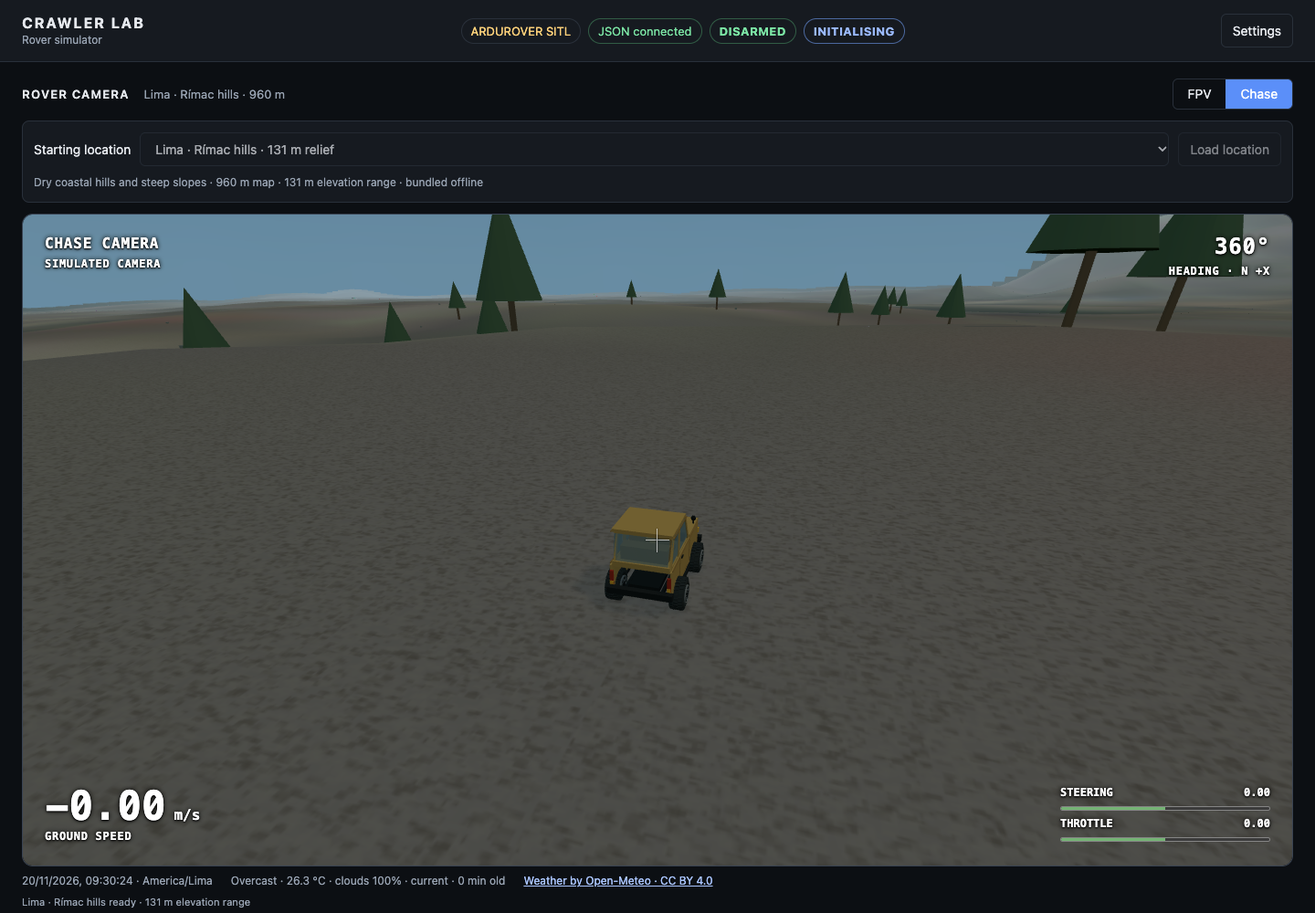
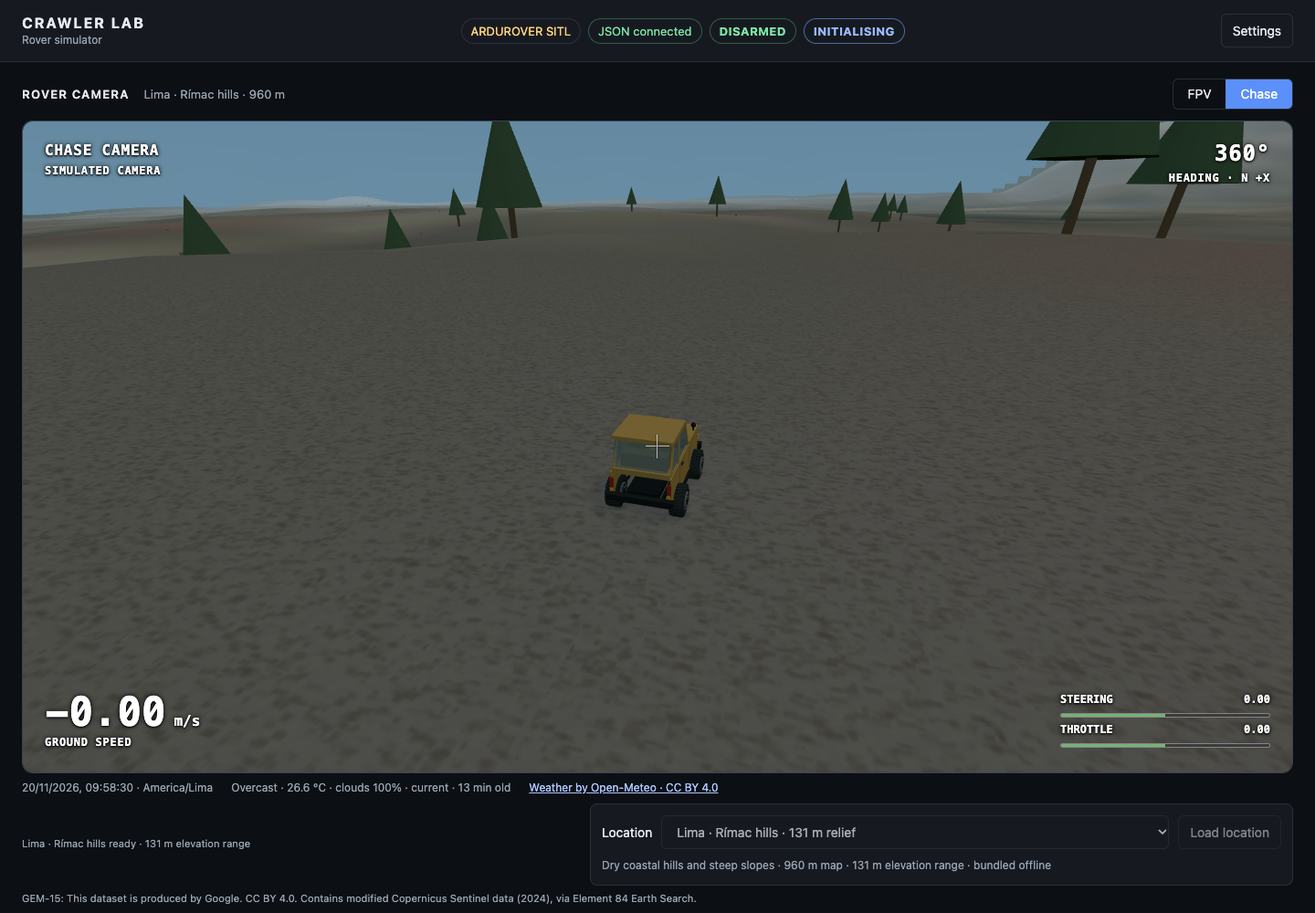
Add Mission Planner terrain selector with preset GPS overrides

diff --git a/src/server.js b/src/server.js
@@ -29,14 +29,14 @@ const session=new Session(physics,config);
 let weather=new LiveWeather(environment.home,{timeZone:environment.timeZone});if(!pendingLocation)weather.start();
 const root=path.resolve(path.dirname(fileURLToPath(import.meta.url)),'..');
 const log=(event,data={})=>console.log(JSON.stringify({time:new Date().toISOString(),event,...data}));
-let selectedLocation=null;
+let selectedLocation=externalStart?'custom':null;
 let startTerrain=locationPicker?{status:'selecting',message:'Choose a starting location below'}:externalStart?{status:'waiting',message:'Waiting for Mission Planner start coordinates and disarmed telemetry'}:null;
 const terrainAbort=new AbortController();
 const telemetry=new HeartbeatTelemetry(config.mavlink??{});
 let telemetrySocket=null;
 if(mode==='sitl'&&config.mavlink){
   telemetrySocket=dgram.createSocket('udp4');
-  telemetrySocket.on('message',bytes=>{telemetry.receive(bytes,performance.now());void loadPickedStart();});
+  telemetrySocket.on('message',bytes=>{telemetry.receive(bytes,performance.now());checkSelectedGps();void loadPickedStart();});
   telemetrySocket.on('error',e=>{log('mavlink-error',{message:e.message});telemetrySocket.close();telemetrySocket=null;});
   telemetrySocket.bind(config.mavlink.port,config.mavlink.host,()=>log('mavlink-listening',{port:config.mavlink.port}));
 }
@@ -68,13 +68,19 @@ wss.on('connection',ws=>{
       const steering=Math.max(-1,Math.min(1,Number(m.steering)||0)),throttle=Math.max(-1,Math.min(1,Number(m.throttle)||0));
       keyboard={steering,throttle,time:performance.now(),owner:steering||throttle?ws:null};
     } else if(m.type==='selectLocation'){
-      if(!locationPicker)error='Start the launcher with --choose-location to select a preset.';
-      else if(['loading','ready'].includes(startTerrain.status))error='Location is loading or already selected.';
-      else if(mode==='sitl'&&performance.now()-session.last<config.timeoutMs)error='Stop SITL before choosing a start; the launcher starts it after selection.';
+      if(!locationPicker&&!externalStart)error='Start with --choose-location or --mission-planner to select a location.';
+      else if(startTerrain.status==='loading'||(locationPicker&&startTerrain.status==='ready'))error='Location is loading or already selected.';
+      else if(externalStart&&sitlActive()&&telemetry.snapshot(performance.now()).armed!==false)error='Disarm SITL and wait for fresh telemetry before changing location.';
+      else if(locationPicker&&mode==='sitl'&&sitlActive())error='Stop SITL before choosing a start; the launcher starts it after selection.';
+      else if(m.id==='custom'&&externalStart)selectCustom();
       else void loadPreset(findLocation(m.id));
     } else if(m.type==='retryTerrain'){
-      if(locationPicker&&startTerrain.status==='error'&&selectedLocation){void loadPreset(findLocation(selectedLocation));}
+      if((locationPicker||externalStart)&&startTerrain.status==='error'&&selectedLocation&&selectedLocation!=='custom'){
+        if(externalStart&&sitlActive()&&telemetry.snapshot(performance.now()).armed!==false)error='Disarm SITL before retrying the location.';
+        else void loadPreset(findLocation(selectedLocation));
+      }
       else if(!externalStart)error='Terrain retry is available in Mission Planner start-selection mode.';
+      else if(['restart','verifying'].includes(startTerrain.status))error='Restart SITL in Mission Planner and wait for the selected GPS position.';
       else if(startTerrain.status==='loading')error='Terrain is already loading.';
       else if(startTerrain.status==='ready')error='Terrain is already loaded.';
       else if(telemetry.snapshot(performance.now()).armed!==false)error='Disarm SITL and wait for fresh telemetry before retrying terrain.';
@@ -99,6 +105,11 @@ if(mode==='sitl'){
       const p=decodeActuators(bytes),key=`${remote.address}:${remote.port}`;
       if(pending){if(p.count===pending.count&&key===pending.key)return;return;}
       const reply=session.receive(p,key,now);if(!reply)return;
+      if(startTerrain?.status==='restart'&&session.stats.restarts>startTerrain.restartFrom){
+        telemetry.simPosition=null;telemetry.globalPosition=null;
+        if(selectedLocation==='custom')startTerrain={status:'waiting',message:'Waiting for Mission Planner start coordinates and disarmed telemetry'};
+        else startTerrain={...startTerrain,status:'verifying',message:'Waiting for GPS at the selected preset · physics held'};
+      }
       resetPending=false;
       if(reply.event==='restart')log('sitl-restarted',{peer:key});
       if(reply.event==='gap')log('frame-gap-resync',{peer:key,count:p.count});
@@ -117,33 +128,58 @@ const tick=setInterval(()=>{const now=performance.now();if(mode==='standalone'){
 }previous=now;
 const connected=mode==='sitl'&&now-session.last<config.timeoutMs;if(connected!==lastConnected){log(connected?'sitl-connected':'sitl-timeout',{peer:session.peer});lastConnected=connected;}
 },5);
-function snapshot(){const state=physics.state();return {type:'state',mode,running,startTerrain,selectedLocation,environment:environment.terrain?.name??'Test playground',home:environment.home,weather:weather.snapshot(),camera:cameraAim(mode==='sitl'?telemetry.rcSnapshot(performance.now()):null),autopilot:mode==='sitl'?telemetry.snapshot(performance.now()):null,connected:mode==='standalone'||performance.now()-session.last<config.timeoutMs,resetPending,...state,simTime:mode==='sitl'?session.time:physics.time,rate:session.rate??100,ageMs:Number.isFinite(session.last)?Math.round(performance.now()-session.last):null,raw:session.raw??[],stats:{...session.stats,malformed,lagDropped},wallTime:performance.now()/1000};}
+function snapshot(){const state=physics.state();return {type:'state',mode,running,startTerrain,selectedLocation,environment:environment.terrain?.name??'Test playground',home:environment.home,weather:weather.snapshot(),camera:cameraAim(mode==='sitl'?telemetry.rcSnapshot(performance.now()):null),autopilot:mode==='sitl'?{...telemetry.snapshot(performance.now()),position:telemetry.positionSnapshot(performance.now())}:null,connected:mode==='standalone'||performance.now()-session.last<config.timeoutMs,resetPending,...state,simTime:mode==='sitl'?session.time:physics.time,rate:session.rate??100,ageMs:Number.isFinite(session.last)?Math.round(performance.now()-session.last):null,raw:session.raw??[],stats:{...session.stats,malformed,lagDropped},wallTime:performance.now()/1000};}
 const broadcast=setInterval(()=>{const msg=JSON.stringify(snapshot());for(const ws of wss.clients)if(ws.readyState===WebSocket.OPEN&&ws.bufferedAmount<65536)ws.send(msg);},50);
 wss.on('error',e=>{log('websocket-error',{message:e.message});process.exitCode=1;});
 server.on('error',e=>{log('http-error',{message:e.message});process.exitCode=1;shutdown();});
 server.listen(config.httpPort,config.httpHost,()=>log('ready',{url:`http://${config.httpHost}:${config.httpPort}`,mode}));
 let shuttingDown=false;
-function initialState(){return {type:'init',mode,config,locations:locationPicker?locationPresets:[],selectedLocation,world:environment.world,terrain:environment.terrain};}
+function initialState(){return {type:'init',mode,config,locations:externalStart?[...locationPresets,{id:'custom',name:'Custom · Mission Planner',description:'Fetch terrain at Mission Planner’s selected start'}]:locationPicker?locationPresets:[],selectedLocation,locationMode:externalStart?'mission-planner':locationPicker?'launcher':null,world:environment.world,terrain:environment.terrain};}
+function sitlActive(){return performance.now()-session.last<config.timeoutMs||telemetry.snapshot(performance.now()).connected;}
+function selectCustom(){
+ selectedLocation='custom';running=false;session.running=false;
+ if(session.stats.packets>0||session.home||session.pendingHome){
+  session.pendingHome=null;
+  startTerrain={status:'restart',restartFrom:session.stats.restarts,message:'Custom selected · stop and start SITL in Mission Planner to read its selected start. Keep this page open.'};
+ }else{
+  startTerrain={status:'waiting',message:'Waiting for Mission Planner start coordinates and disarmed telemetry'};
+  void loadPickedStart();
+ }
+}
+function checkSelectedGps(){
+ if(startTerrain?.status!=='verifying')return;
+ const now=performance.now(),p=telemetry.positionSnapshot(now),home=environment.home;
+ if(p&&telemetry.snapshot(now).armed===false&&Math.abs(p.lat-home.lat)<.00002&&Math.abs(p.lon-home.lon)<.00002&&Math.abs(p.alt-home.alt)<2){
+  startTerrain={...startTerrain,status:'ready',message:`${findLocation(selectedLocation).name} ready · GPS overridden · start physics when ready`};
+ }
+}
 async function loadPreset(preset){
  selectedLocation=preset.id;running=false;session.running=false;keyboard={steering:0,throttle:0,time:0,owner:null};
  startTerrain={status:'loading',message:`Loading ${preset.name}`,home:preset};
  try{
   const {terrain,cached}=await loadStartTerrain(preset,{signal:terrainAbort.signal});
   if(shuttingDown)return;
-  if(mode==='sitl'&&performance.now()-session.last<config.timeoutMs)throw Error('SITL connected before selection finished. Stop it before retrying.');
+  if(locationPicker&&mode==='sitl'&&sitlActive())throw Error('SITL connected before selection finished. Stop it before retrying.');
+  if(externalStart&&sitlActive()&&telemetry.snapshot(performance.now()).armed!==false)throw Error('Disarm SITL before retrying the location selection.');
   const replacement=await Physics.create(config.vehicle,true,terrain);
   if(shuttingDown){replacement.free();return;}
-  if(mode==='sitl'&&performance.now()-session.last<config.timeoutMs){replacement.free();throw Error('Stop SITL before retrying the location selection.');}
+  if(mode==='sitl'&&sitlActive()&&(locationPicker||telemetry.snapshot(performance.now()).armed!==false)){replacement.free();throw Error('Stop or disarm SITL before retrying the location selection.');}
   physics.free();physics=replacement;session.physics=physics;
   environment={terrain,world:terrainObjects(terrain),home:terrain.home,timeZone:preset.timeZone};
   weather.close();weather=new LiveWeather(terrain.home,{timeZone:preset.timeZone});weather.start();
   startTerrain={status:'ready',message:`${preset.name} ready · ${preset.reliefM} m elevation range`,home:terrain.home,cached};
+  if(externalStart){
+   if(session.stats.packets>0){
+    session.pendingHome=terrain.home;
+    startTerrain={...startTerrain,status:'restart',restartFrom:session.stats.restarts,message:`${preset.name} loaded · stop and start SITL in Mission Planner to apply its GPS coordinates. Keep this page open; no map changes needed.`};
+   }else{session.home=terrain.home;session.pendingHome=undefined;}
+  }
   const init=JSON.stringify(initialState());for(const ws of wss.clients)if(ws.readyState===WebSocket.OPEN)ws.send(init);
   log('location-selected',{id:preset.id,home:terrain.home,cached});
  }catch(error){if(!shuttingDown)startTerrain={status:'error',message:`Location load failed: ${error.message}. Use Retry terrain.`,home:preset};}
 }
 async function loadPickedStart(){
- if(!externalStart||startTerrain.status!=='waiting'||shuttingDown)return;
+ if(!externalStart||selectedLocation!=='custom'||startTerrain.status!=='waiting'||shuttingDown)return;
  const now=performance.now(),home=telemetry.positionSnapshot(now);
  if(!home||telemetry.snapshot(now).armed!==false)return;
  startTerrain={status:'loading',message:'Downloading terrain for selected start',home};log('terrain-start-loading',{home});

diff --git a/web/app.js b/web/app.js
@@ -15,9 +15,9 @@ const weatherView=createWeatherView(scene,renderer,sun,ambient,scenery);const ca
 // Rendering and video capture do not own physics or MAVLink control.
 export const fpvOutput={camera,canvas,renderer,scene};
 function box(size,color,parent=scene){const m=new T.Mesh(new T.BoxGeometry(...size),new T.MeshStandardMaterial({color,roughness:.85}));m.castShadow=true;m.receiveShadow=true;parent.add(m);return m;}
-let state=null,config=null,wheels=[],ws,mode='sitl',lastReceive=0,crawler=null,locations=[];
+let state=null,config=null,wheels=[],ws,mode='sitl',lastReceive=0,crawler=null,locations=[],locationMode=null;
 function notice(message){$('notice').textContent=message;$('notice').style.display='block';setTimeout(()=>$('notice').style.display='none',7000);}
-function setup(m){locations=m.locations??[];$('locationPicker').hidden=!locations.length;$('locationSelect').replaceChildren(...locations.map(p=>{const o=document.createElement('option');o.value=p.id;o.textContent=`${p.name} · ${p.reliefM} m relief`;return o;}));$('locationSelect').value=m.selectedLocation??state?.selectedLocation??locations[0]?.id??'';describeLocation();config=m.config;mode=m.mode;const c=config.vehicle;$('mode').textContent=mode==='sitl'?'ARDUROVER SITL':'STANDALONE · NO AUTOPILOT';$('help').textContent=mode==='sitl'?'Drive using Mission Planner or your MAVLink companion. Browser keys do not control physics.':'W/S or ↑/↓: forward / brake / reverse. A/D or ←/→: steer. Release to stop. Click the view to focus.';$('keyLegend').hidden=mode!=='standalone';for(const id of ['armState','flightMode'])$(id).hidden=mode!=='sitl';
+function setup(m){locationMode=m.locationMode;locations=m.locations??[];$('locationPicker').hidden=!locations.length;$('locationSelect').replaceChildren(...locations.map(p=>{const o=document.createElement('option');o.value=p.id;o.textContent=p.id==='custom'?p.name:`${p.name} · ${p.reliefM} m relief`;return o;}));$('locationSelect').value=m.selectedLocation??state?.selectedLocation??locations[0]?.id??'';describeLocation();config=m.config;mode=m.mode;const c=config.vehicle;$('mode').textContent=mode==='sitl'?'ARDUROVER SITL':'STANDALONE · NO AUTOPILOT';$('help').textContent=mode==='sitl'?'Drive using Mission Planner or your MAVLink companion. Browser keys do not control physics.':'W/S or ↑/↓: forward / brake / reverse. A/D or ←/→: steer. Release to stop. Click the view to focus.';$('keyLegend').hidden=mode!=='standalone';for(const id of ['armState','flightMode'])$(id).hidden=mode!=='sitl';
   if(crawler){rover.remove(crawler.model);crawler.dispose();}
   crawler=createCrawler(c);rover.add(crawler.model);wheels=crawler.wheels;
   // Init is resent on reconnect; replace world instead of duplicating objects.
@@ -34,7 +34,7 @@ function send(m){if(ws?.readyState===WebSocket.OPEN)ws.send(JSON.stringify(m));}
 function connect(){ws=new WebSocket(`${location.protocol==='https:'?'wss':'ws'}://${location.host}`);ws.onmessage=e=>{const m=JSON.parse(e.data);if(m.type==='init')setup(m);if(m.type==='error')notice(m.message);if(m.type==='state'){state=m;lastReceive=performance.now();}};ws.onclose=()=>{keys.clear();$('connection').textContent='Backend offline · reconnecting';$('connection').dataset.state='offline';setTimeout(connect,1000);};}
 connect();
 $('run').onclick=()=>send({type:'running',value:!state?.running});$('reset').onclick=()=>send({type:'reset'});
-function describeLocation(){const p=locations.find(p=>p.id===$('locationSelect').value);$('locationHint').textContent=p?`${p.description} · 960 m map · ${p.reliefM} m elevation range · bundled offline`:'';}
+function describeLocation(){const p=locations.find(p=>p.id===$('locationSelect').value);$('locationHint').textContent=p?(p.id==='custom'?p.description:`${p.description} · 960 m map · ${p.reliefM} m elevation range · bundled offline`):'';}
 $('locationSelect').onchange=describeLocation;$('loadLocation').onclick=()=>send({type:'selectLocation',id:$('locationSelect').value});
 $('retryTerrain').onclick=()=>send({type:'retryTerrain'});
 $('fov').oninput=()=>{camera.fov=+$('fov').value;camera.updateProjectionMatrix();$('fovValue').textContent=`${camera.fov}°`;};
@@ -60,8 +60,9 @@ function render(){requestAnimationFrame(render);const width=viewport.clientWidth
     $('armState').dataset.state=autopilot?autopilot.armed?'armed':'disarmed':'unknown';$('flightMode').dataset.state=autopilot?.flightMode?'known':'unknown';
     if(s.wallTime!==previousWall){ratio=(s.simTime-previousTime)/(s.wallTime-previousWall);previousTime=s.simTime;previousWall=s.wallTime;}
     const terrainMessage=s.startTerrain?.message??'';if($('startTerrainStatus').textContent!==terrainMessage)$('startTerrainStatus').textContent=terrainMessage;$('run').disabled=!!s.startTerrain&&s.startTerrain.status!=='ready';
-    $('locationSelect').disabled=!online||['loading','ready'].includes(s.startTerrain?.status);$('loadLocation').disabled=$('locationSelect').disabled;
-    $('terrainLoad').hidden=!s.startTerrain;$('retryTerrain').hidden=s.startTerrain?.status==='ready'||(locations.length>0&&s.startTerrain?.status==='selecting');$('retryTerrain').disabled=!online||(!locations.length&&s.autopilot?.armed!==false)||['loading','ready'].includes(s.startTerrain?.status);$('retryTerrain').textContent=s.startTerrain?.status==='loading'?'Loading terrain…':'Retry terrain';
+    const externalPicker=locationMode==='mission-planner',unsafeSelection=externalPicker&&(s.connected||s.autopilot?.connected)&&s.autopilot?.armed!==false;
+    $('locationSelect').disabled=!online||s.startTerrain?.status==='loading'||(!externalPicker&&s.startTerrain?.status==='ready')||unsafeSelection;$('loadLocation').disabled=$('locationSelect').disabled;
+    $('terrainLoad').hidden=!s.startTerrain;$('retryTerrain').hidden=['ready','restart','verifying'].includes(s.startTerrain?.status)||(locations.length>0&&s.startTerrain?.status==='selecting');$('retryTerrain').disabled=!online||((!locations.length||externalPicker)&&s.autopilot?.armed!==false)||['loading','ready'].includes(s.startTerrain?.status);$('retryTerrain').textContent=s.startTerrain?.status==='loading'?'Loading terrain…':'Retry terrain';
     $('run').textContent=s.running?'Stop physics':'Start physics';$('diagnostics').textContent=`RTF ${ratio.toFixed(2)} · packet age ${s.ageMs??'—'} ms · duplicates ${s.stats.duplicates} · skipped ${s.stats.skipped} · malformed ${s.stats.malformed}`;$('status').textContent=s.running?`${$('camera').value==='fpv'?'ONBOARD FPV':'CHASE'} · ${mode==='sitl'?'SITL actuator authority':'keyboard test mode'}`:'PHYSICS STOPPED · sensor time continues in SITL';
   }const activeCamera=$('camera').value==='fpv'?camera:chase;weatherView.update(state?.weather,state?.home,activeCamera,lastReceive);scenery.sky.position.copy(activeCamera.position);renderer.render(scene,activeCamera);cameraVideo.capture(canvas,performance.now());
 }render();

diff --git a/test/backend.test.js b/test/backend.test.js
@@ -35,7 +35,7 @@ test('startup dropdown loads a preset before SITL connects and keeps it locked a
  }finally{ws?.terminate();unexpectedSITL.close();await s.close();}
 });
 test('Mission Planner selected start waits for disarm, loads matching terrain and keeps physics held',async()=>{
- const s=await launch('mission-planner'),udp=dgram.createSocket('udp4');
+ const s=await launch('mission-planner'),udp=dgram.createSocket('udp4');let ws;
  const send=hex=>new Promise((resolve,reject)=>udp.send(Buffer.from(hex,'hex'),s.config.mavlink.port,'127.0.0.1',e=>e?reject(e):resolve()));
  try{
   assert.equal((await s.state()).startTerrain.status,'waiting');
@@ -46,7 +46,33 @@ test('Mission Planner selected start waits for disarm, loads matching terrain an
   await send('fd0900000001010000000f0000000a030104037547');
   let state;for(let i=0;i<100;i++){state=await s.state();if(state.startTerrain.status==='ready')break;await delay(20);}
   assert.equal(state.startTerrain.status,'ready');assert.equal(state.startTerrain.cached,true);assert.equal(state.home.lat,50.3375);assert.equal(state.home.alt,184.16);assert.equal(state.running,false);assert.match(state.environment,/Feofaniya/);
- }finally{udp.close();await s.close();}
+  const packet=Buffer.alloc(40);packet.writeUInt16LE(18458);packet.writeUInt16LE(100,2);packet.writeUInt32LE(1,4);
+  const reply=once(udp,'message',{signal:AbortSignal.timeout(2000)});udp.send(packet,s.config.udpPort,'127.0.0.1');await reply;
+  ws=await s.socket();ws.send(JSON.stringify({type:'selectLocation',id:'custom'}));await delay(50);
+  assert.equal((await s.state()).startTerrain.status,'restart','reloading Custom must restart the estimator rather than resetting physics under a live session');
+ }finally{ws?.terminate();udp.close();await s.close();}
+});
+test('external preset changes reject armed or unknown telemetry and hold physics until restart',async()=>{
+ const s=await launch('mission-planner'),udp=dgram.createSocket('udp4');let ws;
+ const send=hex=>new Promise((resolve,reject)=>udp.send(Buffer.from(hex,'hex'),s.config.mavlink.port,'127.0.0.1',e=>e?reject(e):resolve()));
+ const select=id=>ws.send(JSON.stringify({type:'selectLocation',id}));
+ try{
+  ws=await s.socket();select('lima');
+  for(let i=0;i<100&&(await s.state()).startTerrain.status!=='ready';i++)await delay(20);
+  assert.equal((await s.state()).selectedLocation,'lima');
+  // The JSON stream can be alive even while heartbeat freshness is unknown.
+  const packet=Buffer.alloc(40);packet.writeUInt16LE(18458);packet.writeUInt16LE(100,2);packet.writeUInt32LE(1,4);
+  const reply=once(udp,'message',{signal:AbortSignal.timeout(2000)});udp.send(packet,s.config.udpPort,'127.0.0.1');await reply;
+  select('lviv');await delay(40);assert.equal((await s.state()).selectedLocation,'lima');
+  await send('fe0900010100000000000a038104035d04');await delay(20);select('custom');await delay(40);
+  assert.equal((await s.state()).selectedLocation,'lima','armed requests are refused by the backend, not just disabled UI');
+  await send('fd0900000001010000000f0000000a030104037547');await delay(20);select('lviv');
+  for(let i=0;i<100&&(await s.state()).startTerrain.status!=='restart';i++)await delay(20);
+  const held=await s.state();assert.equal(held.selectedLocation,'lviv');assert.equal(held.startTerrain.status,'restart');assert.equal(held.running,false);
+  ws.send(JSON.stringify({type:'running',value:true}));await delay(40);assert.equal((await s.state()).running,false);
+  select('custom');await delay(40);assert.equal((await s.state()).startTerrain.status,'restart');
+  select('custom');await delay(40);assert.equal((await s.state()).startTerrain.status,'restart','reloading Custom must not reuse the previous SITL session');
+ }finally{ws?.terminate();udp.close();await s.close();}
 });
 test('failed terrain can be retried through the browser without restarting the backend',async()=>{
  const s=await launch('mission-planner'),udp=dgram.createSocket('udp4');let ws;

diff --git a/src/session.js b/src/session.js
@@ -2,6 +2,7 @@ import {FrameClock,encodeSensors,pwm} from './protocol.js';
 export class Session {
   constructor(physics,config){this.physics=physics;this.config=config;this.clock=new FrameClock();this.peer=null;this.last=-Infinity;this.cached=null;this.running=true;this.time=0;this.inputs={steering:0,throttle:0};this.stats={packets:0,duplicates:0,skipped:0,restarts:0,old:0,gaps:0};}
   receive(p,peer,now){
+    const restarts=this.stats.restarts;
     const expired=now-this.last>this.config.timeoutMs;
     if(this.peer!==null&&peer!==this.peer&&!expired)return null;
     if(this.peer!==peer){this.peer=peer;this.clock=new FrameClock();this.physics.reset();this.time=0;this.stats.restarts++;}
@@ -14,6 +15,7 @@ export class Session {
     // Frame zero while a peer is live is ambiguous with UDP reordering. Require timeout.
     if(f.kind==='restart'&&!expired){this.clock.count=this.previousCount;this.stats.old++;return null;}
     if(f.kind==='restart'){this.physics.reset();this.time=0;this.stats.restarts++;}
+    if(this.stats.restarts!==restarts&&this.pendingHome!==undefined){this.home=this.pendingHome;this.pendingHome=undefined;}
     this.previousCount=p.count;this.last=now;this.rate=p.rate;this.raw=p.pwm;
     this.stats.skipped+=f.steps-1;
     const next={steering:pwm(p.pwm[this.config.steering.channel-1],this.config.steering),throttle:pwm(p.pwm[this.config.throttle.channel-1],this.config.throttle)};
@@ -22,6 +24,13 @@ export class Session {
     if(!this.running){sensor.velocity=[0,0,0];sensor.imu.gyro=[0,0,0]; // hold pose, but keep estimator time alive
       // Specific force for frozen pose is computed from attitude, not last collision.
       const {rotation}=this.physics.state();if(rotation){sensor.imu=this.physics.frozenIMU();}}
+    if(this.home){
+      const [north,east,down]=sensor.position,metresPerDegree=111318.845;
+      sensor.latitude=this.home.lat+north/metresPerDegree;
+      const longitude=this.home.lon+east/(metresPerDegree*Math.cos((this.home.lat+sensor.latitude)*Math.PI/360));
+      sensor.longitude=longitude>=-180&&longitude<=180?longitude:((longitude+180)%360+360)%360-180;
+      sensor.altitude=this.home.alt-down;
+    }
     sensor.timestamp=this.time;this.cached=encodeSensors(sensor);
     return {bytes:this.cached,dt:f.steps*f.dt,event:f.kind};
   }

diff --git a/web/index.html b/web/index.html
@@ -18,10 +18,6 @@
     <div><span class="view-title">ROVER CAMERA</span><span id="landscape" class="muted secondary">Loading landscape</span></div>
     <div class="seg" role="group" aria-label="Camera view"><button id="fpv" aria-pressed="true">FPV</button><button id="chase" aria-pressed="false">Chase</button></div>
   </div>
-  <section id="locationPicker" class="location-picker" aria-label="Starting location" hidden>
-    <label for="locationSelect">Starting location</label><select id="locationSelect" aria-describedby="locationHint"></select><button id="loadLocation" type="button">Load location</button>
-    <p id="locationHint" class="muted"></p>
-  </section>
   <section id="viewport" tabindex="0" aria-label="Rover viewport. Focus to drive in standalone mode.">
     <canvas id="view" aria-label="Rover camera view"></canvas>
     <div class="osd">
@@ -37,7 +33,14 @@
     <div id="notice" role="status"></div>
   </section>
   <div class="environment-status"><span id="localTime">Waiting for local time</span><span id="weatherStatus">Loading weather…</span><a href="https://open-meteo.com/" target="_blank" rel="noopener noreferrer">Weather by Open-Meteo · CC BY 4.0</a></div>
-  <div id="terrainLoad" class="terrain-load" hidden><p id="startTerrainStatus" class="terrain-attribution" role="status"></p><button id="retryTerrain" type="button">Retry terrain</button></div>
+  <div id="terrainLoad" class="terrain-load" hidden>
+    <p id="startTerrainStatus" class="terrain-attribution" role="status"></p>
+    <section id="locationPicker" class="location-picker" aria-label="Starting location" hidden>
+      <label for="locationSelect">Location</label><select id="locationSelect" aria-describedby="locationHint"></select><button id="loadLocation" type="button">Load location</button>
+      <p id="locationHint" class="muted"></p>
+    </section>
+    <button id="retryTerrain" type="button">Retry terrain</button>
+  </div>
   <p id="terrainAttribution" class="terrain-attribution"></p>
   <div class="timing"><span><b id="rate">—</b> Hz physics</span><span><b id="time">0.0</b> s simulated</span><span id="diagnostics">Waiting for timing data</span></div>
   <section class="controls" aria-label="Simulator controls">

diff --git a/test/session.test.js b/test/session.test.js
@@ -7,3 +7,17 @@ const a=n=>({count:n,rate:100,pwm:Array(16).fill(1500)});
 test('duplicates reuse same bytes and time; stale peer is not allowed to hijack live session',()=>{const s=new Session(p,loadConfig());const first=s.receive(a(0),'a',0);const steps=p.steps;assert.equal(s.receive(a(0),'a',100).bytes,first.bytes);assert.equal(p.steps,steps);assert.equal(s.receive(a(1),'b',200),null);assert.ok(s.receive(a(1),'a',200));assert.equal(s.receive(a(0),'a',300),null);assert.ok(s.receive(a(0),'b',3000));});
 test('pause still advances sensor timestamp and holds physical pose',()=>{const s=new Session(p,loadConfig());s.running=false;const before=p.steps;s.receive(a(1),'a',0);assert.equal(p.steps,before);assert.ok(JSON.parse(s.cached.toString()).timestamp>0);});
 test('large packet gap recovers with one bounded step and fresh counter',()=>{const s=new Session(p,loadConfig());s.receive(a(1),'a',0);const before=p.steps;assert.ok(s.receive(a(10000),'a',10));assert.equal(p.steps,before+1);assert.ok(s.receive(a(10001),'a',20));assert.equal(s.stats.gaps,1);});
+test('preset origin supplies absolute GPS including NED displacement and altitude',()=>{
+ const physics={...p,state(){return {sensor:{imu:{gyro:[0,0,0],accel_body:[0,0,-9.80665]},position:[111.318845,55.6594225,-3],velocity:[0,0,0],quaternion:[1,0,0,0]}};}};
+ const s=new Session(physics,loadConfig());s.home={lat:0,lon:179.9998,alt:120};
+ const sensor=JSON.parse(s.receive(a(1),'a',0).bytes);
+ assert.ok(Math.abs(sensor.latitude-.001)<1e-7);
+ assert.ok(Math.abs(sensor.longitude-(-179.9997))<1e-7);
+ assert.equal(sensor.altitude,123);assert.deepEqual(sensor.position,[111.318845,55.6594225,-3]);
+});
+test('a pending geographic change activates only on a fresh SITL session',()=>{
+ const s=new Session(p,loadConfig());s.receive(a(10),'a',0);s.pendingHome={lat:-12.026,lon:-77.028,alt:200};
+ assert.equal(JSON.parse(s.receive(a(11),'a',10).bytes).latitude,undefined);
+ const fresh=JSON.parse(s.receive(a(0),'a',4000).bytes);assert.equal(fresh.latitude,-12.026);assert.equal(fresh.longitude,-77.028);
+ s.receive(a(1),'a',4100);s.pendingHome=null;assert.equal(JSON.parse(s.receive(a(0),'a',8000).bytes).latitude,undefined);
+});

diff --git a/web/style.css b/web/style.css
@@ -146,11 +146,15 @@ html[data-camera-output] #viewport{width:100vw;height:100vh;min-height:0;max-hei
 .environment-status a{color:#aac5ff}
 #weatherStatus[data-state=stale]{color:var(--warn)}
 html[data-camera-output] .environment-status{display:none}
-.terrain-load{display:flex;align-items:center;gap:12px}
+.terrain-load{display:flex;align-items:center;flex-wrap:wrap;gap:12px;margin-top:8px}
 .terrain-load[hidden],html[data-camera-output] .terrain-load{display:none}
-.terrain-load p{flex:1;min-width:0}
+.terrain-load>p{flex:1;min-width:0}
 button:disabled{opacity:.5;cursor:default}
 .location-picker{display:flex;align-items:center;gap:10px;flex-wrap:wrap;margin-bottom:12px;padding:12px;background:var(--panel);border:1px solid var(--line);border-radius:8px;font-size:.875rem}
 .location-picker[hidden],html[data-camera-output] .location-picker{display:none}
 .location-picker select{flex:1;min-width:0;max-width:100%}
 .location-picker p{width:100%;margin:0;font-size:.75rem}
+
+.terrain-load>.terrain-attribution{flex:1 1 300px}
+.terrain-load .location-picker{flex:1 1 460px;margin:0}
+@media(max-width:560px){.location-picker label,.location-picker select{flex-basis:100%}}

diff --git a/docs/locations.md b/docs/locations.md
@@ -1,8 +1,34 @@
 # Bundled location presets
 
+## Mission Planner mode: presets or Custom
+
+With `npm.cmd run sim -- --mission-planner`, the **Location** selector beside
+terrain status and **Retry terrain** offers all five offline presets plus
+**Custom · Mission Planner**. Choose an option and click **Load location**.
+
+Presets load their bundled terrain without downloading. The backend supplies
+absolute latitude, longitude and altitude to ArduPilot's JSON simulator, so
+Mission Planner's Simulation map marker can stay anywhere. Weather and local
+time follow the preset.
+
+If SITL has already connected, disarm before changing location. The backend
+holds physics and asks you to stop and start SITL in Mission Planner, keeping
+the backend and browser open. The GPS override activates on the new SITL
+session; physics remains held until fresh simulation/GPS telemetry confirms
+the selected location and altitude. No manual map-coordinate changes are needed.
+Choosing a preset before the first SITL connection avoids this extra restart.
+
+**Custom · Mission Planner** is the default and downloads terrain at Mission
+Planner's selected start, with validated cache reuse. Switching from a preset
+to Custom also requires restarting SITL so its navigation estimator initializes
+at the map-selected start again. Custom terrain can still fail where source
+data is missing; choose a preset to use a complete offline patch instead.
+
+## Launcher-owned SITL: preset startup
+
 Run `npm.cmd run sim -- --choose-location` in Windows, or double-click
 `start-location-picker.cmd`. On macOS/Linux use `npm run sim -- --choose-location`.
-Open `http://127.0.0.1:8090`, select a **Starting location**, and click **Load
+Open `http://127.0.0.1:8090`, select a **Location**, and click **Load
 location**. The launcher waits for that choice before starting SITL with the
 selected terrain's latitude, longitude and elevation. Then click **Start physics**
 and drive through Mission Planner as usual.
@@ -33,10 +59,10 @@ the launcher and launch the picker again. If loading an asset fails, **Retry
 terrain** retries without restarting the backend. `--standalone --choose-location`
 also works for keyboard testing without SITL.
 
-The default `npm run sim` still loads Feofaniya automatically. The separate
-`--mission-planner` mode still takes its start from Mission Planner's Simulation
-map; it automatically reuses a bundled patch when the selected coordinates match
-one of these exact origins. `--choose-location` cannot be combined with
+The default `npm run sim` still loads Feofaniya automatically.
+In `--mission-planner` mode, **Custom** takes its start from Mission Planner's
+Simulation map and automatically reuses a bundled patch when its selected
+coordinates match one of these exact origins. `--choose-location` cannot be combined with
 `--mission-planner`, `--flat` or `--playground`.
 
 ## Data provenance
@@ -63,3 +89,8 @@ measured elevation range, and proves loading presets never calls the downloader.
 `npm run test:locations` uses Chrome and native SITL to select Lima through the
 dropdown and verifies its actual SITL home, timezone, collisions and narrow
 layout. It reserves HTTP 8103, UDP 9010/14568 and TCP 5794/5796.
+
+`npm run test:terrain-selector` uses Chrome and native SITL to verify preset GPS
+overrides against an Australian start, restart handling for a live region
+change, return to Custom, terrain collisions and narrow layout. It reserves
+HTTP 8104, UDP 9011/14569 and TCP 5798/5800.

diff --git a/docs/superpowers/plans/2026-11-20-terrain-selector.md b/docs/superpowers/plans/2026-11-20-terrain-selector.md
@@ -1,0 +1,18 @@
+# Terrain selector implementation plan
+
+**Goal:** Select an offline preset or Custom (Mission Planner) beside terrain retry, without manually matching Mission Planner coordinates.
+
+**Architecture:** Expose the existing catalogue in external Mission Planner mode. Presets supply absolute geographic sensor positions derived from the selected terrain origin and rover NED displacement. Custom retains validated Mission Planner start detection. Hold physics after a live region change until SITL restarts; never teleport an armed autopilot. Keep launcher-owned preset startup compatible.
+
+**Tech stack:** Node, WebSocket, Rapier, Three, ArduPilot JSON SITL, Playwright.
+
+## Execution
+
+- [x] Add failing session tests for preset geographic output, displacement and unchanged Custom frames; run `node --test test/session.test.js`.
+- [x] Add a browser/native SITL smoke scenario: external mode exposes six options; select Lima against an Australian SITL start; verify actual SIMSTATE/GPS, timezone, restart hold, wheel contacts and mobile layout. Verify Custom returns to Mission Planner start detection and stale/armed changes are refused.
+- [x] Implement geographic sensor conversion in `src/session.js`, expose selection and safe restart handling in `src/server.js`, and reuse the picker next to retry in `web/index.html`, `web/app.js`, `web/style.css`.
+- [x] Run `npm test`, the new browser/native smoke, and existing position, retry and location smokes. Review the diff and update `docs/locations.md` with the two modes and restart requirement.
+
+The approved design is the inline selector with five offline presets and Custom; preset GPS overrides the external start. External SITL remains owned by Mission Planner, so a required restart is requested there rather than terminating an unrelated process. The user subsequently authorized pushing the completed, verified change.
+
+Verification: `npm test` passed 58 tests with one Windows-only skip. Native Chrome selector smoke passed actual GPS/altitude override, restart holds, return to Custom, wheel contacts, and description placement on narrow screens. Existing location, terrain retry, and native Custom position smokes passed. Independent code review found one Custom-reload restart gap; the added regression failed before the fix and passed after it. Follow-up review found no remaining important issues.
